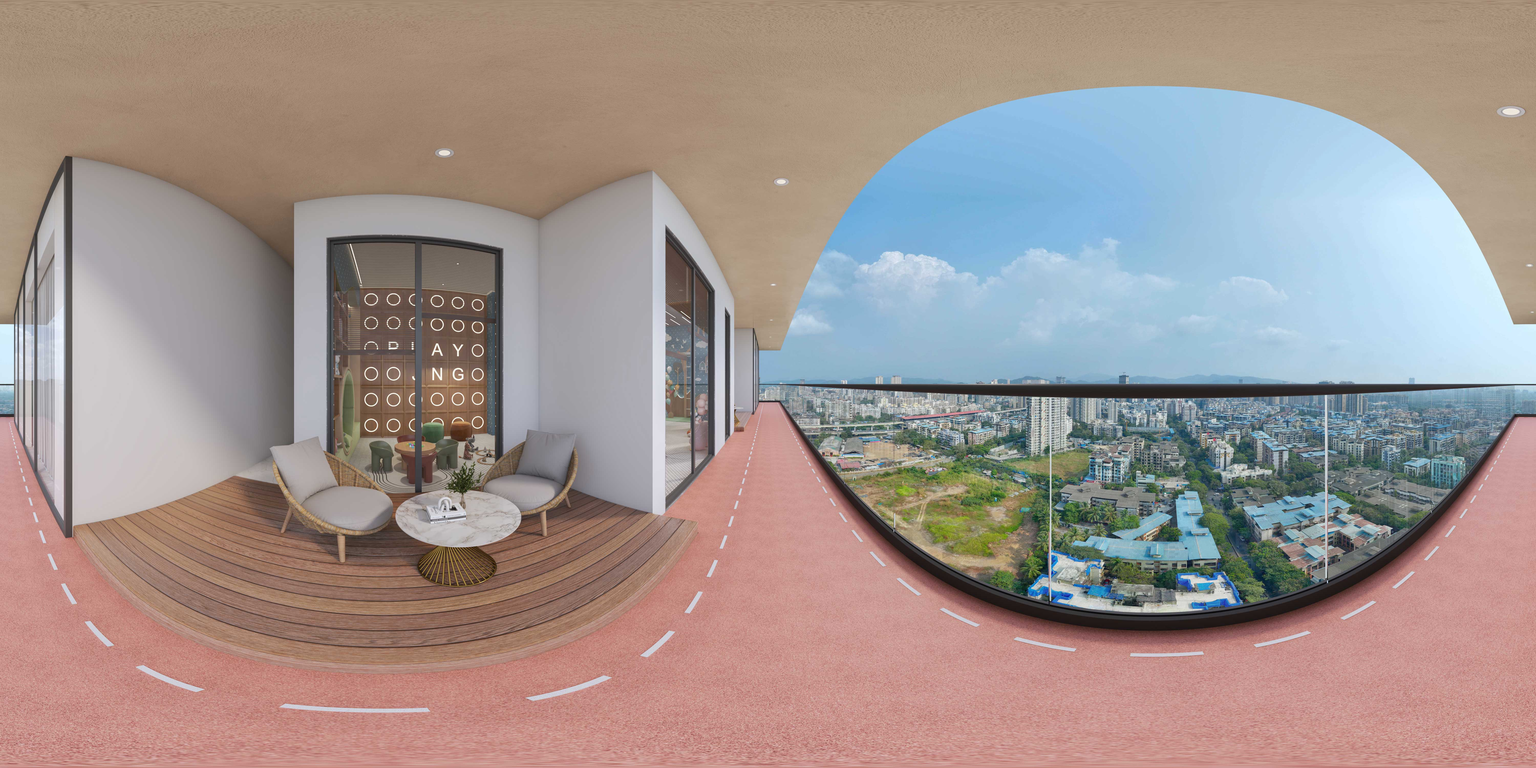
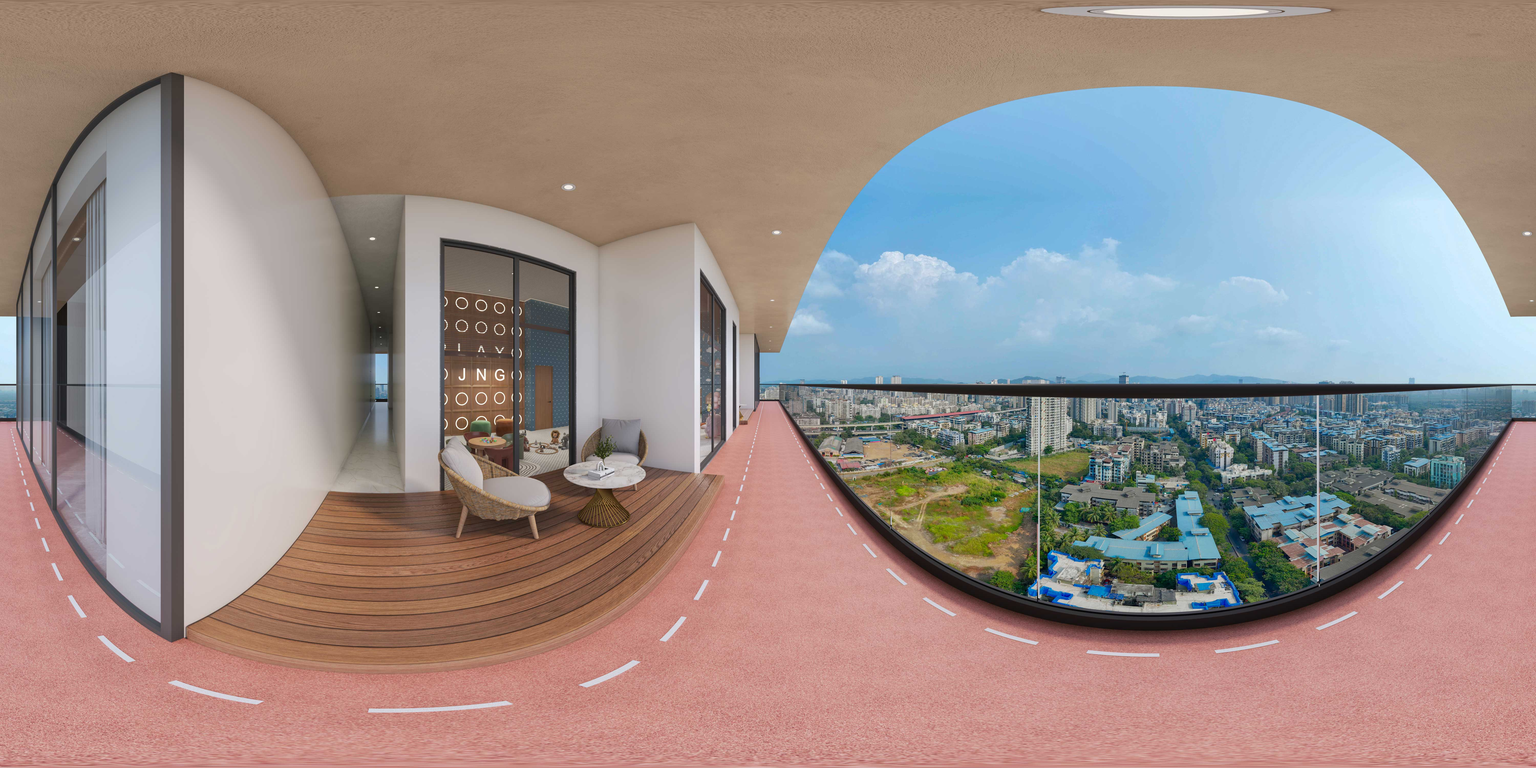
[fix] ::: added the changes of the

diff --git a/src/data/tirmuthAmenities.js b/src/data/tirmuthAmenities.js
@@ -9,6 +9,7 @@ export const TIRMUTH_AMENITY_SCENES = [
   ['tirmuth-indoor-games', 'Indoor Games', 'indoorGame_360.jpg', .65, { left: 39, top: 38 }, 18],
   ['tirmuth-multipurpose-hall', 'Multipurpose Hall', 'multipurposeHall.jpg', .44, { left: 47, top: 72 }, 22],
   ['tirmuth-childrens-play-area', "Children's Play Area", 'childrensPlayArea.jpg', .3, { left: 63, top: 38 }, -18],
+  ['tirmuth-gym-track', 'Jogging Track · Gym', 'gymJoggingTrack.jpg', .75, { left: 25, top: 11.2 }, 90],
   ['tirmuth-indoor-games-track', 'Jogging Track · Indoor Games', 'indoorGameJoggingTrack.jpg', .75, { left: 14.5, top: 49 }, 0],
   ['tirmuth-multipurpose-hall-track', 'Jogging Track · Multipurpose Hall', 'multipurposeHallJoggingTrack.jpg', .75, { left: 57, top: 89.4 }, -90],
   ['tirmuth-childrens-play-area-track', "Jogging Track · Children's Play Area", 'childrenplayAreaJoggingTrack.jpg', .75, { left: 84.7, top: 49 }, 180],
@@ -17,3 +18,4 @@ export const TIRMUTH_AMENITY_SCENES = [
   cameraPosition, radarHeadingOffset,
   arrivalU, arrivalPitch: 0, arrivalImmediate: true,
 }))
+
